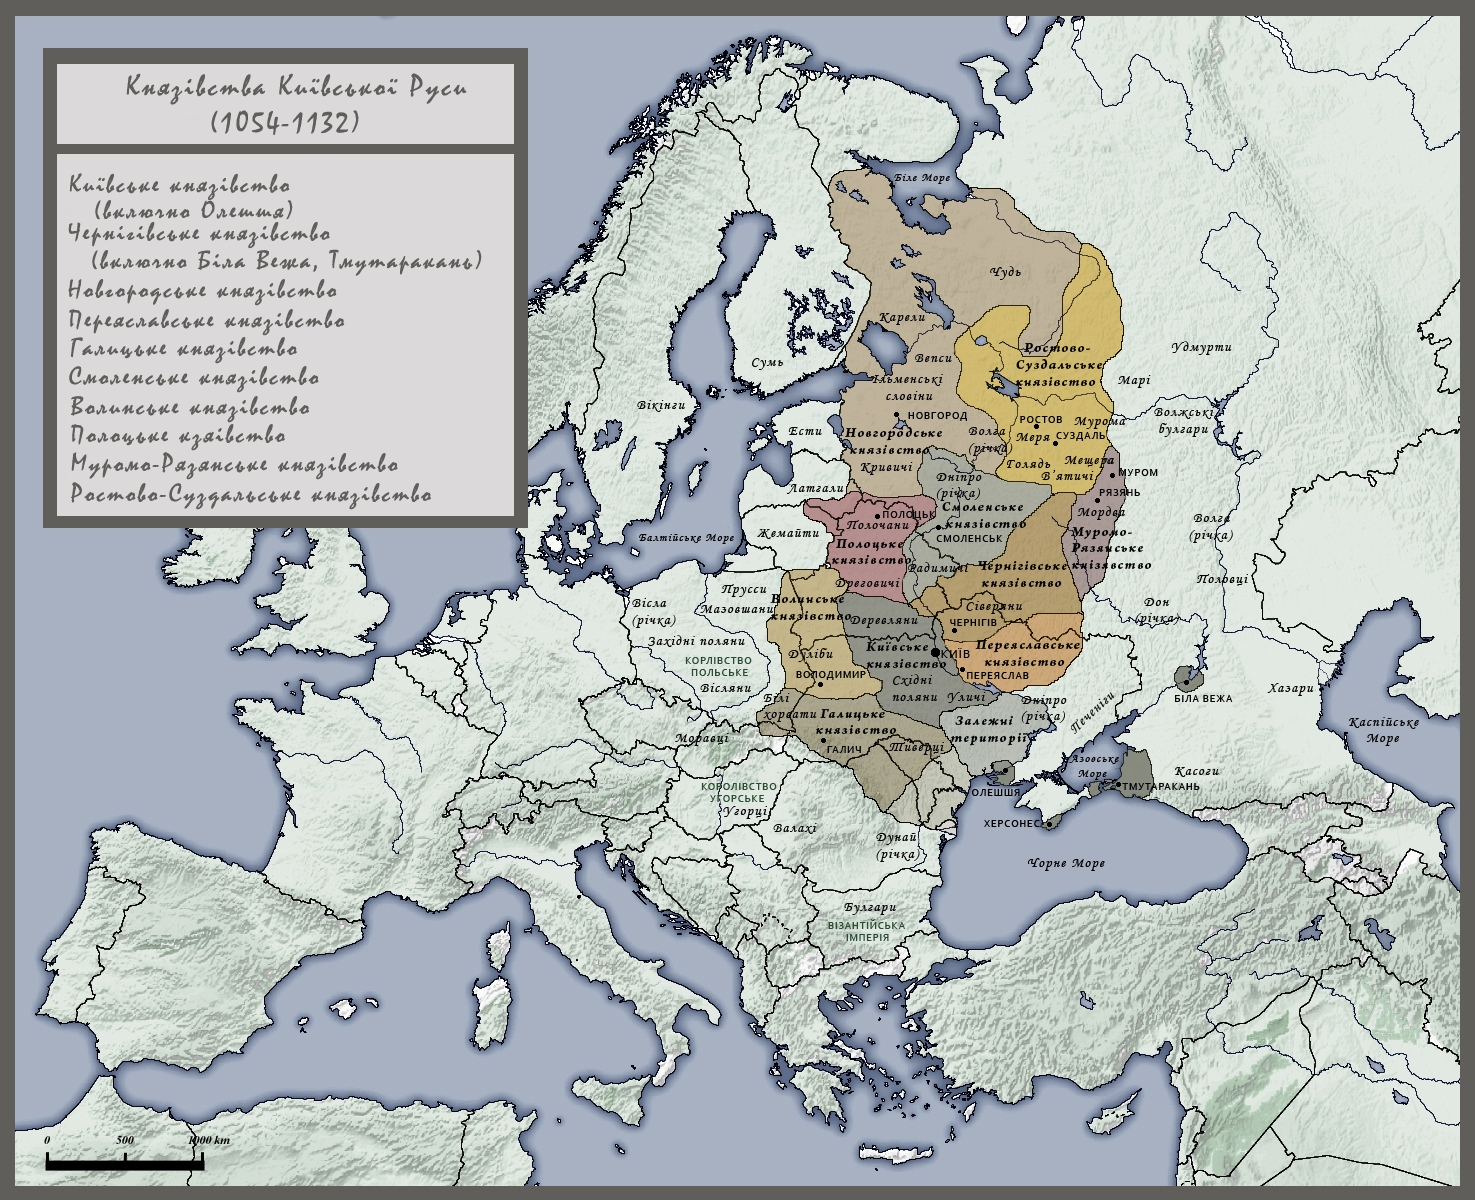
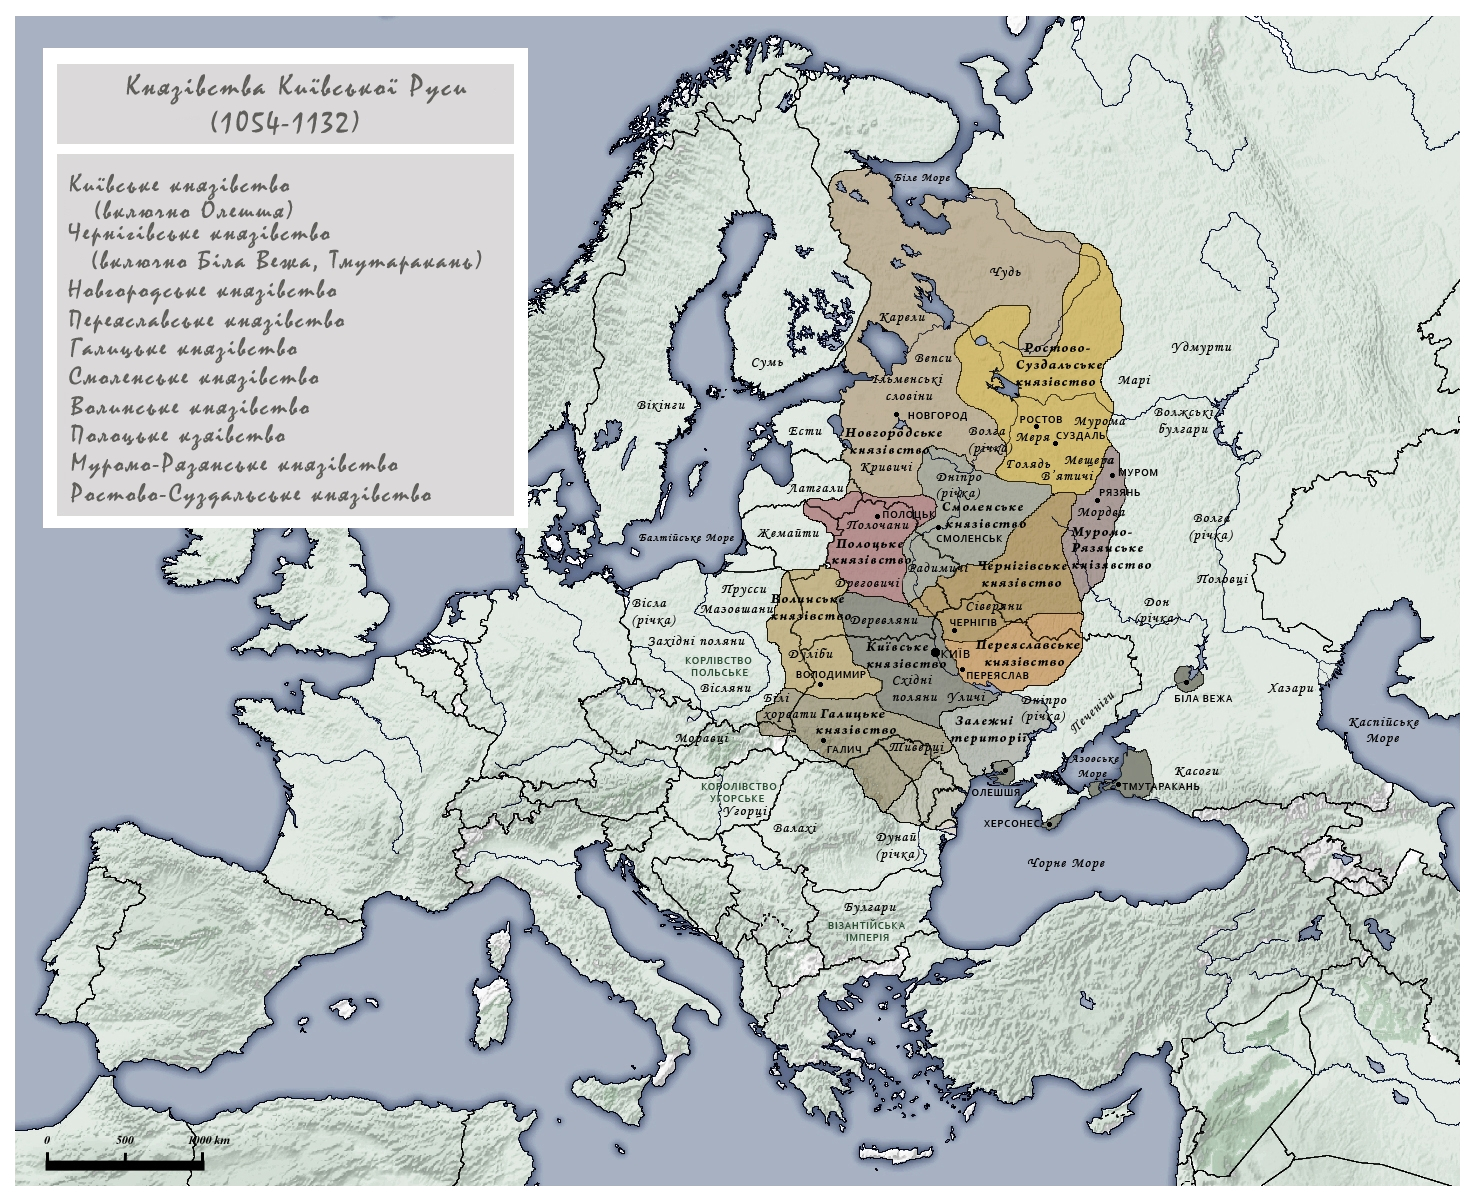
image

Changed region(s): [[0.0, 0.0, 1.0, 1.0]]

diff --git a/index.html b/index.html
@@ -33,7 +33,7 @@
   <body>
     <!-- Reference item-->
     <!-- Intro Image-->
-    <section id="intro" style="background: url(img/intro-map.jpg) center center no-repeat; background-size: cover;" class="intro-section pb-2">
+    <section id="intro" style="background: url(img/intro-map.jpg) top center no-repeat; background-size: cover;" class="intro-section pb-2">
       <div class="container text-center">
         <h1 data-animate="fadeInDown" class="text-shadow text">Київська Русь</h1>
         <p data-animate="slideInUp" class="h3 text-shadow text-400">від Чорного Моря до Балтійського</p>
